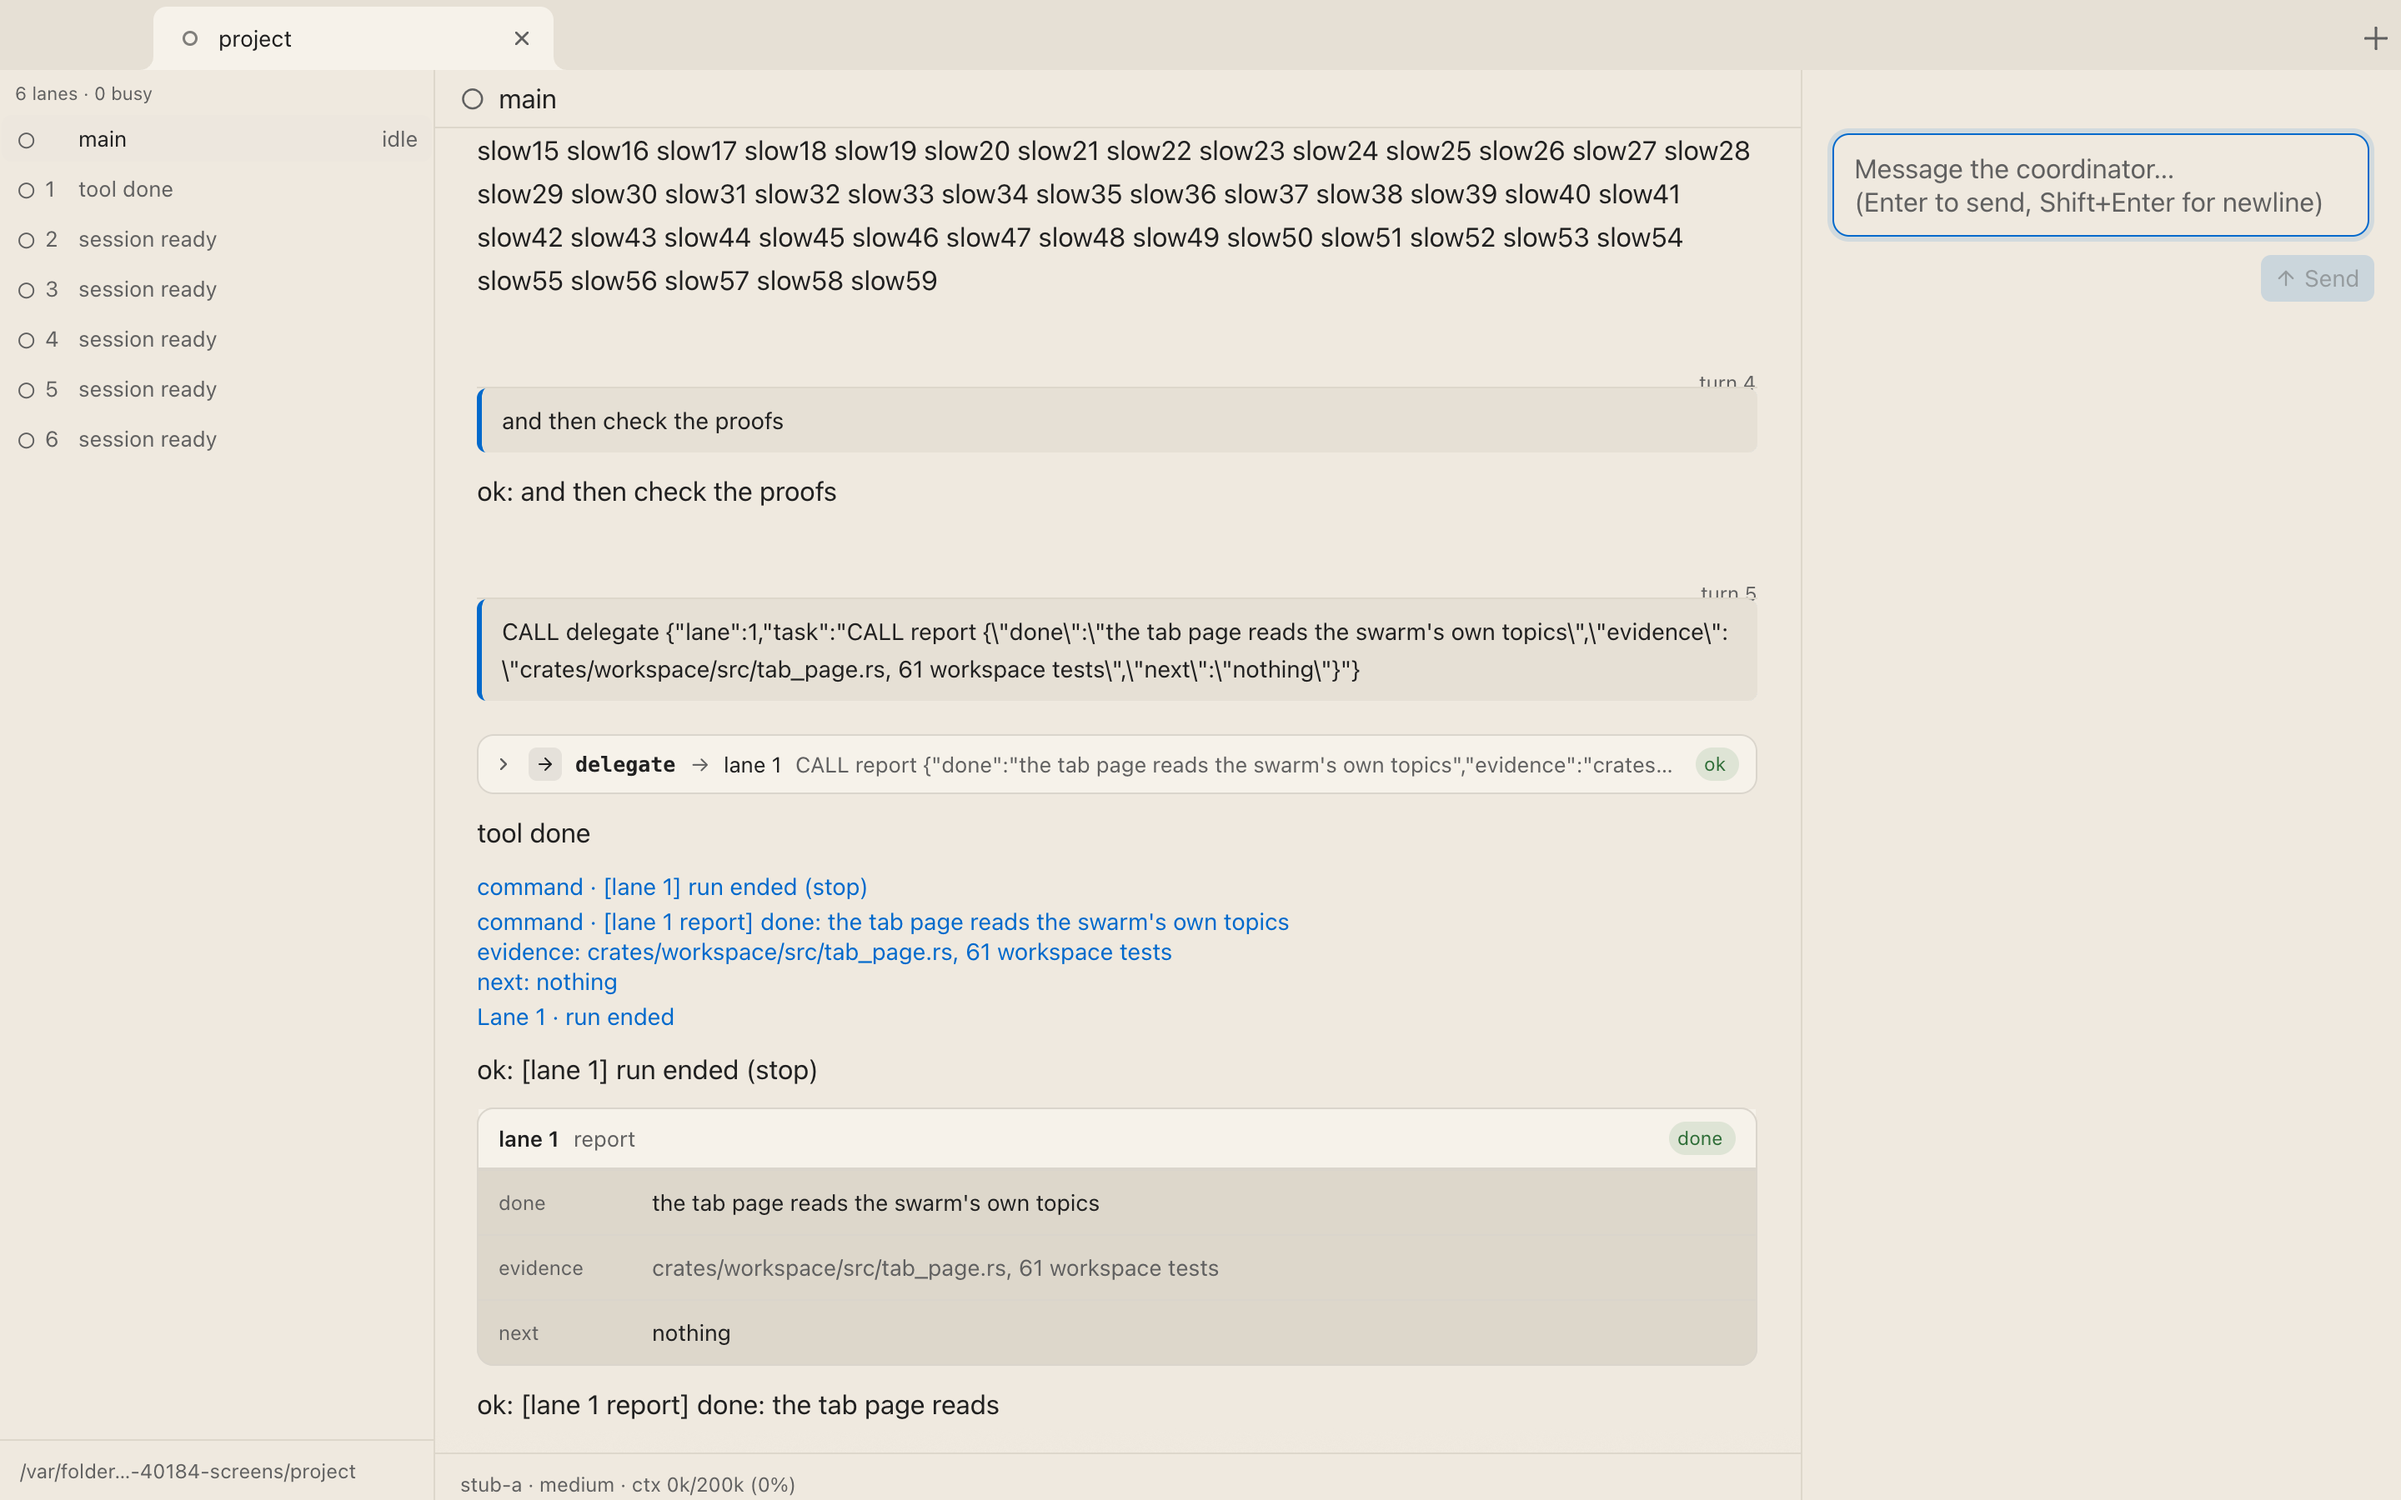
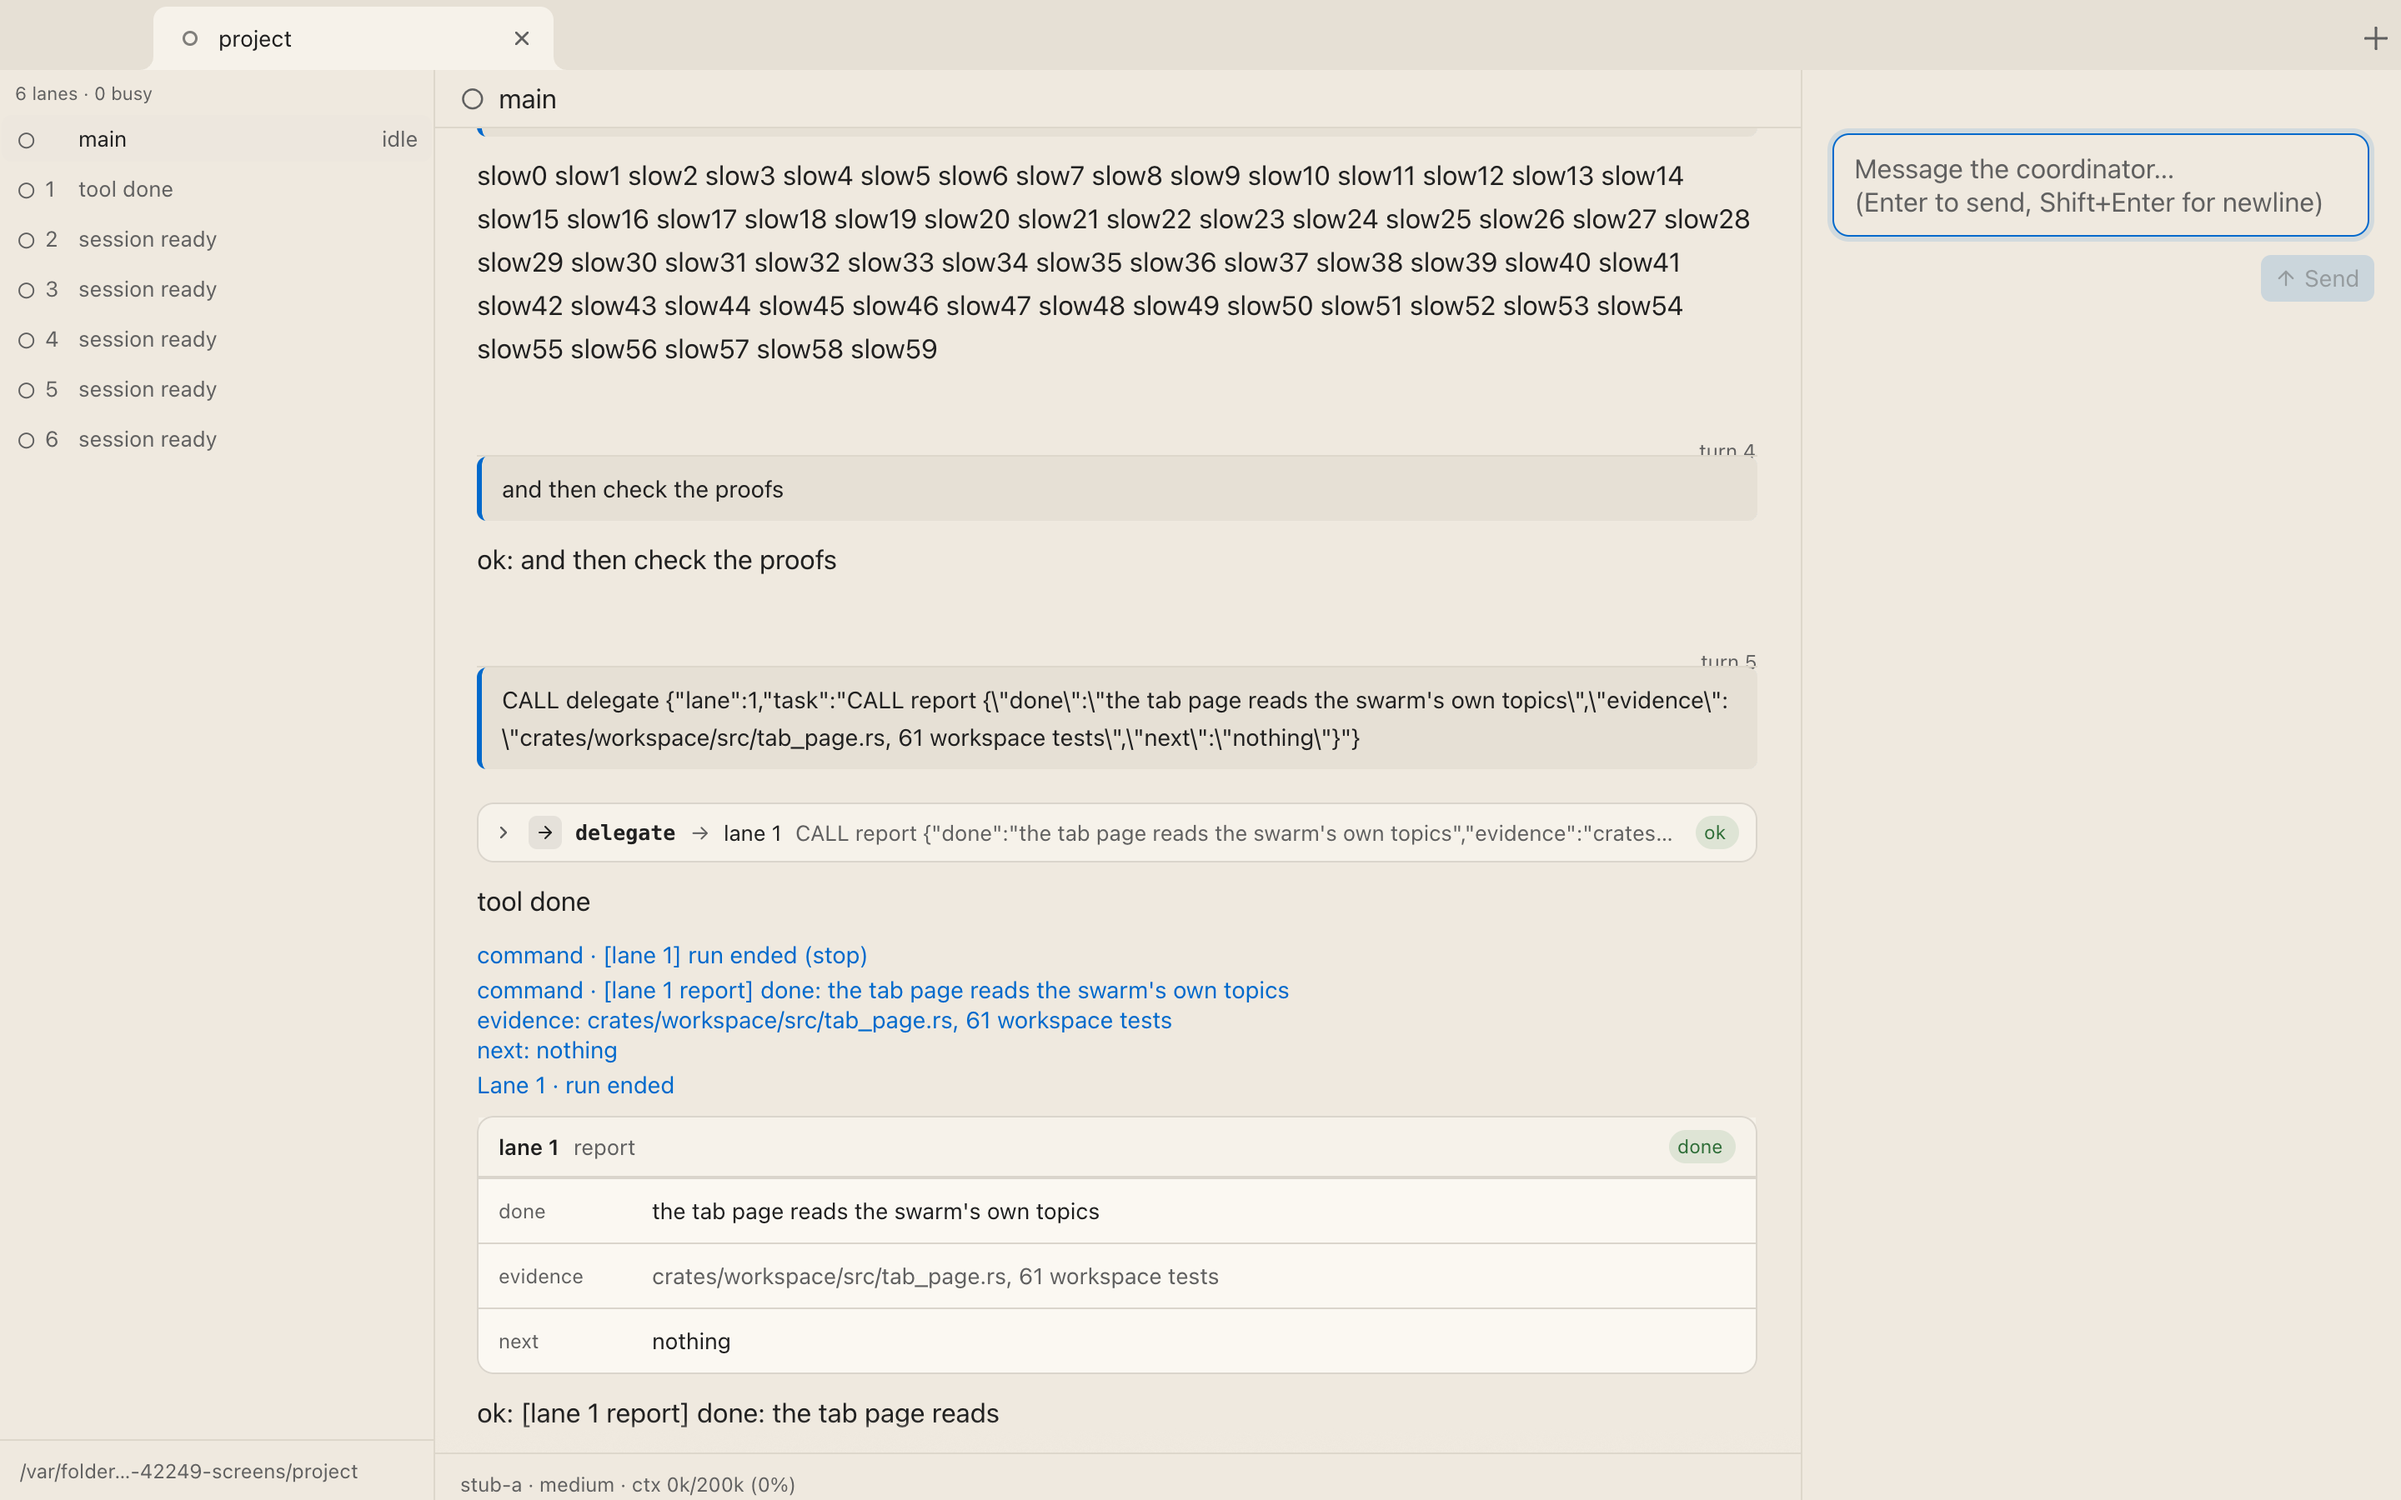
fix(transcript): a card's body is the design's input surface
`theme.input` is the kit's own grey — the app's theme maps no `input.background`
token — so a tool card's body came out *darker* than its head, where the design's
`.tc-body{background:var(--input)}` is the lightest surface of the three. The two
surfaces a card is drawn on now come from the design's own palette, which is where
they are written down: `--input` #FBF8F2 for the body and `--sidebar` #F6F2EA for
the head, in the light theme, and #171717 / #141414 in the dark. Sampled from the
new capture: body (251,248,242) on a head of (246,242,234).

diff --git a/crates/transcript/src/style.rs b/crates/transcript/src/style.rs
@@ -3,9 +3,11 @@
 
 use gpui_kit::component::text::TextViewStyle;
 use gpui_kit::component::ActiveTheme as _;
+
 use gpui_kit::{
     px, rems, App, FontWeight, Hsla, Overflow, Pixels, SharedString, StyleRefinement, Styled as _,
 };
+use store::design;
 
 /// The widest a row's content gets.
 ///
@@ -92,11 +94,25 @@ impl Palette {
     pub(crate) fn from_app(cx: &App) -> Self {
         let theme = cx.theme();
         let colors = theme.semantic_tokens().colors;
+        let color = |token: store::design::Rgb| {
+            let rgba = gpui_kit::Rgba {
+                r: f32::from(token.r) / 255.,
+                g: f32::from(token.g) / 255.,
+                b: f32::from(token.b) / 255.,
+                a: 1.,
+            };
+            Hsla::from(rgba)
+        };
         Self {
             background: colors.background,
             foreground: colors.foreground,
-            sidebar: theme.sidebar,
-            input: theme.input,
+            // The two surfaces the design's cards are drawn on. They come from
+            // the design's own palette rather than the theme's, because the theme
+            // carries no `input.background` token: a card's body is the lightest
+            // surface in the design (`--input`), and a card's head the chrome one
+            // (`--sidebar`).
+            sidebar: color(design::palette(theme.is_dark()).sidebar),
+            input: color(design::palette(theme.is_dark()).input),
             pill_ink: mix(theme.success, 85., colors.foreground),
             muted: colors.muted,
             muted_foreground: colors.muted_foreground,
